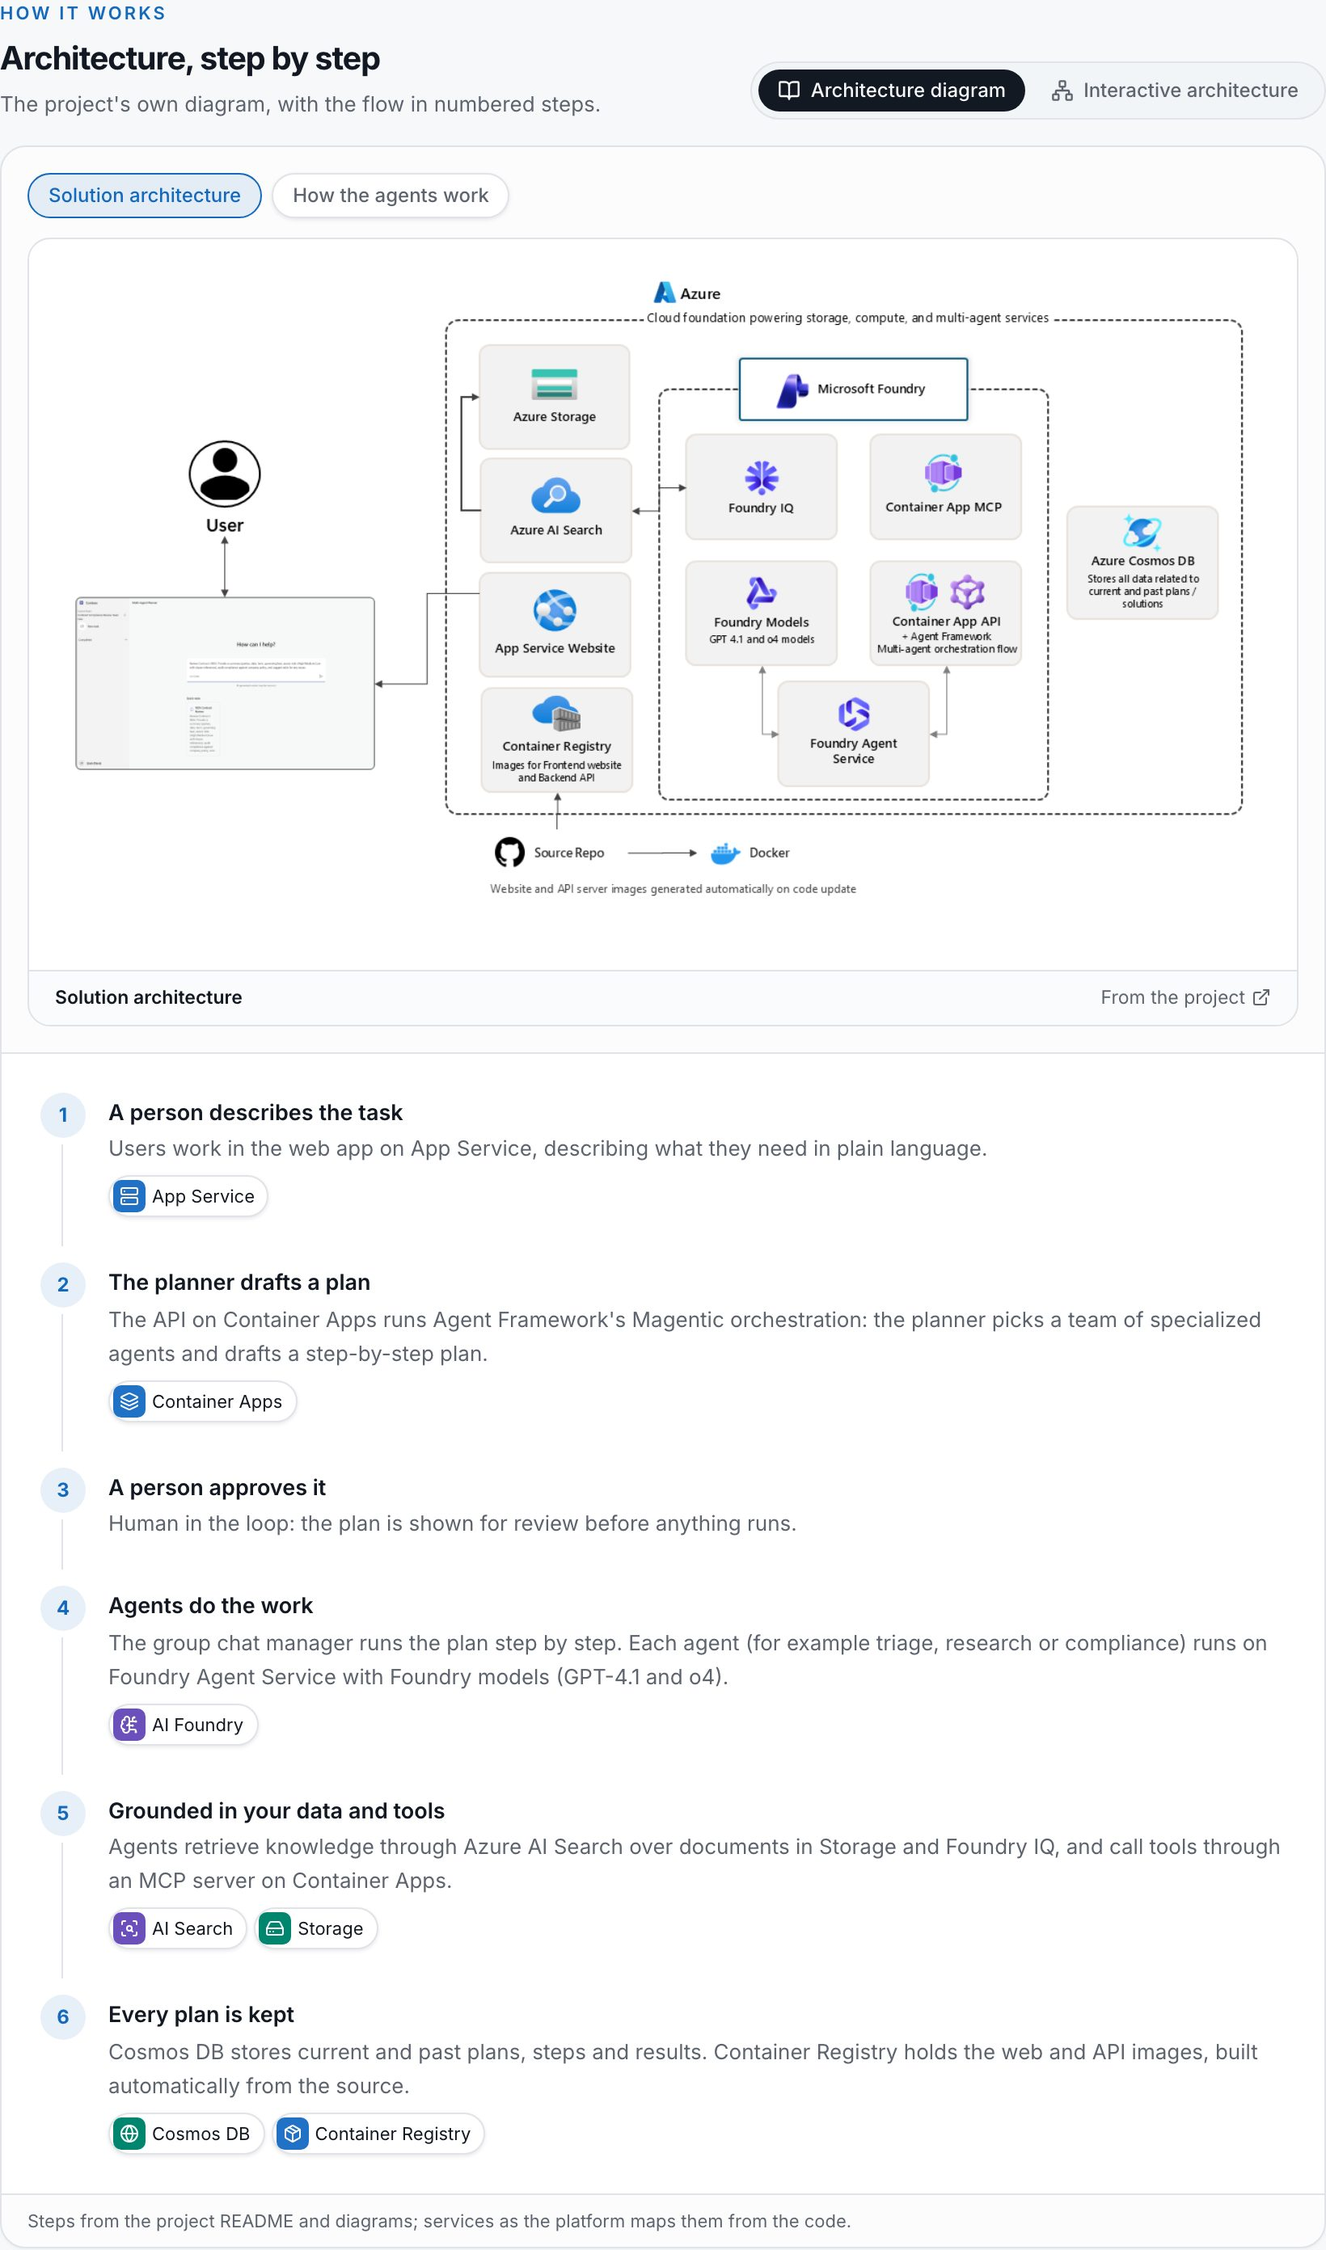
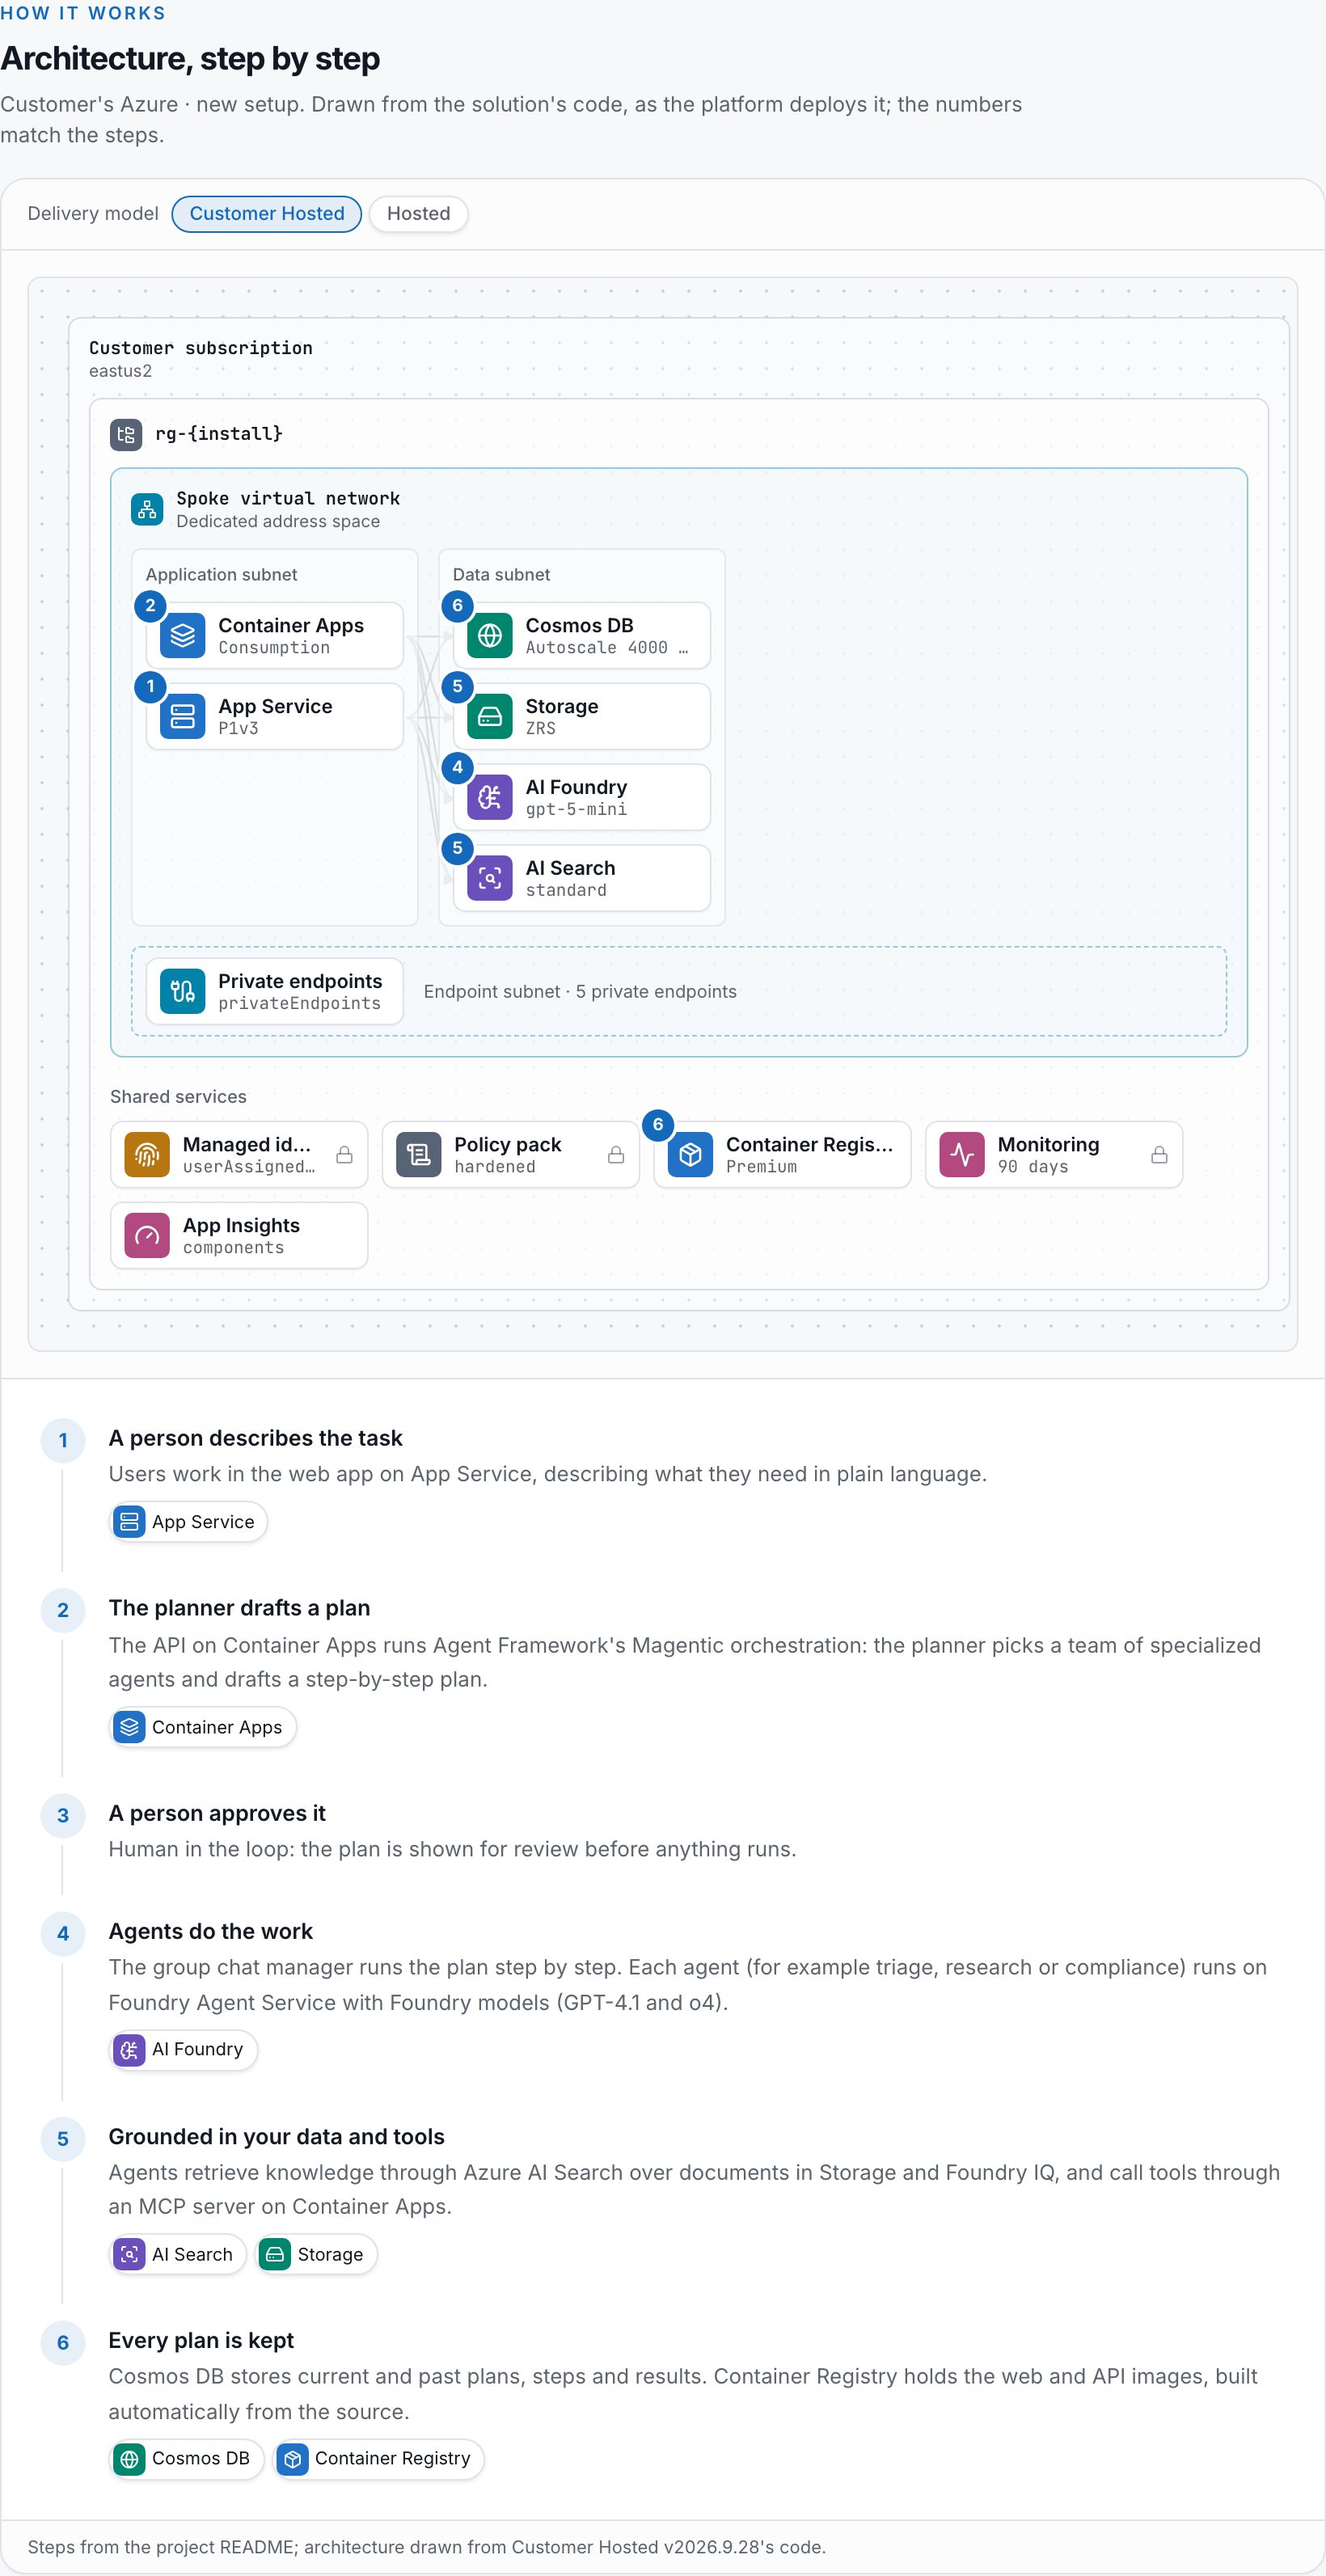
Keep the two marketing pages separate; draw architecture ourselves
The software-company page and the field page no longer link to each other. The
field page's screenshots show the architecture Cloud Delivery draws from each
solution's code, not a project's README diagram.

diff --git a/site/field/index.html b/site/field/index.html
@@ -38,7 +38,6 @@
           <a href="#value">Value</a>
         </nav>
         <div class="nav-cta">
-          <a class="btn btn-ghost" href="../">For software companies</a>
           <a class="btn btn-primary" data-link="console" data-path="products" href="#">Open the live demo</a>
         </div>
       </div>
@@ -210,7 +209,7 @@
             <article>
               <i data-lucide="network"></i>
               <h3>Proven architecture</h3>
-              <p>Reference architectures and patterns as the starting point, with the project's own diagrams.</p>
+              <p>Reference architectures and patterns as the starting point, drawn from the code the same way every time.</p>
             </article>
             <article>
               <i data-lucide="code-xml"></i>
@@ -327,12 +326,12 @@
           </ol>
           <div class="duo f-duo">
             <figure class="shot">
-              <img src="shots/solution-how.jpg" alt="How it works: the accelerator's own architecture diagram with numbered steps" loading="lazy" />
-              <figcaption>Every accelerator explains itself: its own diagram, and the flow in numbered steps.</figcaption>
+              <img src="shots/solution-how.jpg?v=2" alt="How it works: the architecture drawn from the accelerator's code, with numbered steps" loading="lazy" />
+              <figcaption>Every accelerator explains itself: the flow in numbered steps, on the architecture drawn from its code.</figcaption>
             </figure>
             <figure class="shot">
-              <img src="shots/solution-interactive.jpg" alt="Interactive architecture of a delivery model, numbered to match the steps" loading="lazy" />
-              <figcaption>The same steps on the architecture the platform actually deploys, per delivery model.</figcaption>
+              <img src="shots/solution-interactive.jpg?v=2" alt="Interactive architecture of a delivery model, numbered to match the steps" loading="lazy" />
+              <figcaption>Each delivery model gets its own architecture, numbered to match the steps.</figcaption>
             </figure>
           </div>
         </div>
@@ -373,7 +372,7 @@
                 <h3>Offering</h3>
                 <p>Define how it's deployed: architecture choices, SKUs, regions, networking, dependencies and the inputs each customer provides. One product can have several delivery models.</p>
               </div>
-              <figure class="shot"><img src="shots/solution-interactive.jpg" alt="Offering architecture" loading="lazy" /></figure>
+              <figure class="shot"><img src="shots/solution-interactive.jpg?v=2" alt="Offering architecture" loading="lazy" /></figure>
             </div>
             <div class="f-life-pane" data-pane="install" hidden>
               <div>
@@ -555,7 +554,6 @@
     <footer class="foot">
       <div class="wrap">
         <span>Cloud Delivery for Microsoft field teams. Accelerators are Microsoft open-source projects; Cloud Delivery packages and delivers them, it doesn't replace their guidance.</span>
-        <span><a href="../">For software companies →</a></span>
       </div>
     </footer>
 

diff --git a/site/index.html b/site/index.html
@@ -34,7 +34,6 @@
           <a href="#landing">Landing zones</a>
           <a href="#yours">Yours to run</a>
           <a href="#faq">FAQ</a>
-          <a href="field/">For Microsoft teams</a>
         </nav>
         <div class="nav-cta">
           <a class="btn btn-ghost" data-link="repo" href="#" target="_blank" rel="noopener"
@@ -365,7 +364,7 @@
     <footer class="foot">
       <div class="wrap">
         <span>Cloud Delivery — deliver your software into every customer's Azure.</span>
-        <span>Built on Azure Landing Zones, Azure Verified Modules and GitHub Actions. <a href="field/" style="color:#fff">For Microsoft field teams →</a></span>
+        <span>Built on Azure Landing Zones, Azure Verified Modules and GitHub Actions.</span>
       </div>
     </footer>
 
